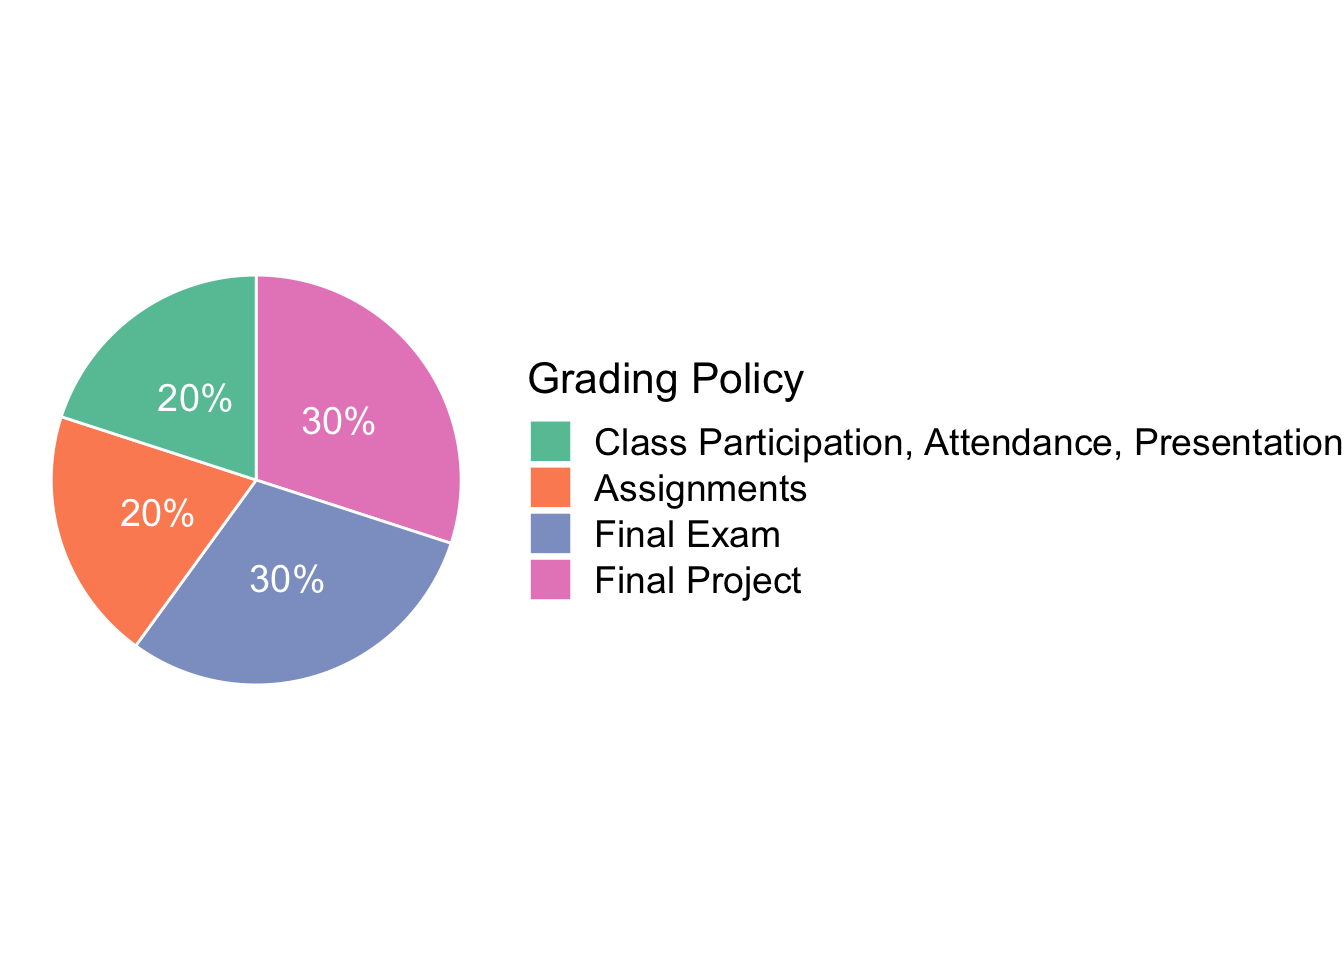
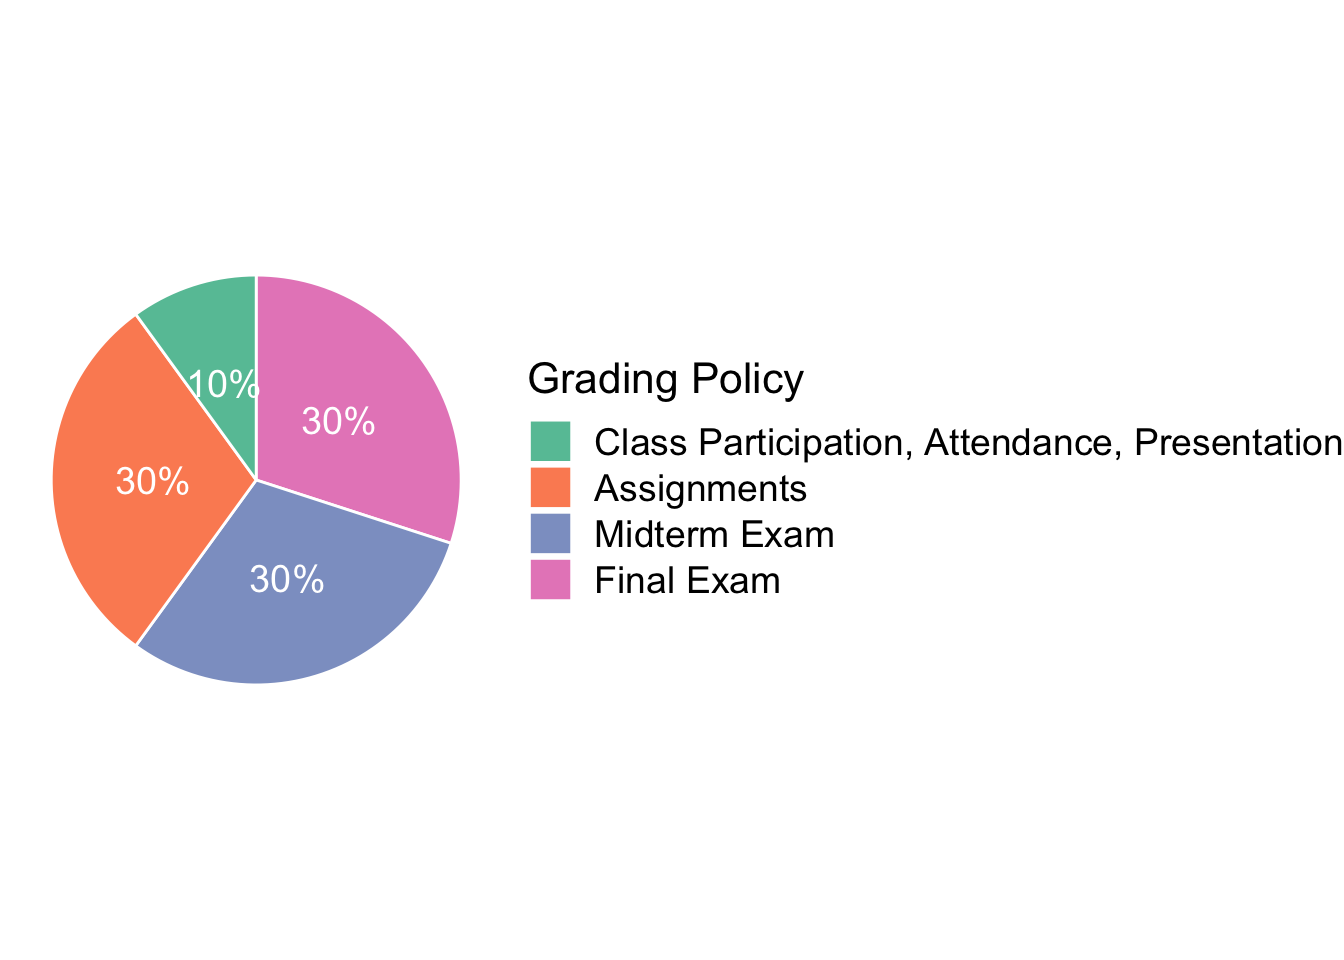
update docs

Changed region(s): [[0.0312, 0.3125, 0.1875, 0.5625], [0.4375, 0.5312, 0.625, 0.625]]

diff --git a/docs/index.html b/docs/index.html
@@ -345,33 +345,43 @@ $(document).ready(function () {
 </div>
 
 
-<p><em>This site is last-updated on 2019-12-05</em></p>
+<p><em>This site is last-updated on 2019-12-09</em></p>
 <hr />
 <div class="section level1">
 <h1><i class="fas  fa-clipboard-check "></i> Annoucements</h1>
 <p>Important course information will be posted on this web page and announced in class. You are responsible for all material that appears here and should check this page for updates frequently.</p>
 <ul>
-<li><strong>2019-12-05</strong>: This course website is still under construction…This website is being prepared for the Spring semester of 2020. The course materials have not been complete yet. There are for sure errors now. This website will probably be more in shape after the in-class lectures. Please stay tuned…</li>
+<li><strong>2019-12-09</strong>: This course website is still under construction…This website is being prepared for the Spring semester of 2020. The course materials have not been complete yet. There are for sure errors now. This website will probably be more in shape after the in-class lectures. Please stay tuned…</li>
 </ul>
 <hr />
 </div>
 <div class="section level1">
 <h1><i class="fas  fa-clipboard-check "></i> Course Description</h1>
-<p>This course aims to introduce theories and practices of Corpus Linguistics as a scientific discipline of its own. Corpus Linguistics has now been considered an interdisciplinary subject, requiring knowledge of linguistic theories, quantitative statistics and data processing. Therefore, this course aims to provide the necessary foundation as well as skills for students who are interested in conducting corpus-based linguistic research or language-related research. Students are expected to learn:</p>
+<p>This course aims to introduce theories and practices of Corpus Linguistics as a scientific discipline of its own. Corpus Linguistics has now been considered an interdisciplinary subject, requiring knowledge of linguistic theories, quantitative statistics and data processing. Therefore, this course aims to provide the necessary foundation as well as computational skills for students who are interested in conducting corpus-based linguistic research or language-related research. Students are expected to learn:</p>
 <ul>
 <li>the methodological foundations of Corpus Linguistics</li>
 <li>the theoretical bases of Corpus Linguistics</li>
 <li>the technical designs and configuration of standard corpora</li>
-<li>how to adopt corpus linguistics as a scientific method in terms of :
+<li>how to adopt corpus linguistics as a scientific method in terms of:
 <ul>
+<li>corpus creation</li>
 <li>operationalization</li>
 <li>data retrieval</li>
 <li>quantifying research questions</li>
 <li>significance testing</li>
 </ul></li>
-<li>the applications of corpus-linguistic methodology in the sub-disciplines of linguistic studies</li>
+<li>the common applications of corpus-linguistic methodology:
+<ul>
+<li>concordances</li>
+<li>frequency lists</li>
+<li>collocations</li>
+<li>keywords</li>
+<li>lexical bundles</li>
+<li>word clouds</li>
+<li>vector-space representation of words and texts</li>
+</ul></li>
 </ul>
-<p>The objective of this course is two-fold. On the one hand, it will introduce the theoretical constructs behind corpus linguistics as well as the theoretical foundations that motivate such an empirical method. On the other hand, it will provide specific hands-on tutorials to equip students with the necessary skills of text and statistical processing. This course will be a prerequisite for more advanced courses such as Computational Linguistics, Quantitative Corpus Linguistics.</p>
+<p>This course is extremely hads-on and will lead the students through classic examples of these corpus-based applications via in-class tutorial sessions and take-home assignments. The main objective of this course is to provide students enough computational skills to perform similar corpus-based analyses on their own data or research questions. Also, it will provide specific hands-on tutorials to equip students with the necessary skills of text and statistical processing. This course will be a prerequisite for more advanced courses such as Computational Linguistics and Quantitative Corpus Linguistics.</p>
 <hr />
 </div>
 <div class="section level1">
@@ -421,7 +431,7 @@ Week 3
 2020-03-02
 </td>
 <td style="text-align:left;">
-Corpus Creation I: Design, Method, Formats
+R Fundamentals I
 </td>
 </tr>
 <tr>
@@ -432,7 +442,7 @@ Week 4
 2020-03-09
 </td>
 <td style="text-align:left;">
-Corpus Creation II: Web Crawler
+R Fundamentals II
 </td>
 </tr>
 <tr>
@@ -443,7 +453,7 @@ Week 5
 2020-03-16
 </td>
 <td style="text-align:left;">
-Scientific Method and Hypothesis formulating
+Data Collection and Corpus Creation: HTML and Web Crawler
 </td>
 </tr>
 <tr>
@@ -454,7 +464,7 @@ Week 6
 2020-03-23
 </td>
 <td style="text-align:left;">
-Query language
+Concordances, Frequency Lists, Collocations
 </td>
 </tr>
 <tr>
@@ -465,28 +475,28 @@ Week 7
 2020-03-30
 </td>
 <td style="text-align:left;">
-Data Retrieval and Coding
+Tokenization
 </td>
 </tr>
 <tr>
-<td style="text-align:left;font-weight: bold;">
+<td style="text-align:left;font-weight: bold;color: darkblue !important;">
 Week 8
 </td>
-<td style="text-align:left;font-weight: bold;">
+<td style="text-align:left;font-weight: bold;color: darkblue !important;">
 2020-04-06
 </td>
-<td style="text-align:left;font-weight: bold;">
+<td style="text-align:left;font-weight: bold;color: darkblue !important;">
 Holiday
 </td>
 </tr>
 <tr>
-<td style="text-align:left;font-weight: bold;">
+<td style="text-align:left;font-weight: bold;color: darkblue !important;">
 Week 9
 </td>
-<td style="text-align:left;font-weight: bold;">
+<td style="text-align:left;font-weight: bold;color: darkblue !important;">
 2020-04-13
 </td>
-<td style="text-align:left;font-weight: bold;">
+<td style="text-align:left;font-weight: bold;color: darkblue !important;">
 Midterm Exam
 </td>
 </tr>
@@ -498,7 +508,7 @@ Week 10
 2020-04-20
 </td>
 <td style="text-align:left;">
-Quantifying Research Questions
+N-grams and Lexical Bundles
 </td>
 </tr>
 <tr>
@@ -509,7 +519,7 @@ Week 11
 2020-04-27
 </td>
 <td style="text-align:left;">
-Quantifying Research Questions
+Parts-of-Speech Tagging
 </td>
 </tr>
 <tr>
@@ -520,7 +530,7 @@ Week 12
 2020-05-04
 </td>
 <td style="text-align:left;">
-Significance Testing
+Data Retrieval and Coding: Regular Expressions
 </td>
 </tr>
 <tr>
@@ -531,7 +541,7 @@ Week 13
 2020-05-11
 </td>
 <td style="text-align:left;">
-Case Studies: Collocation &amp; Lexical Semantics
+Data Retrieval and Coding: Experimental Design
 </td>
 </tr>
 <tr>
@@ -542,7 +552,7 @@ Week 14
 2020-05-18
 </td>
 <td style="text-align:left;">
-Case Studies: Language Learning
+Statistical Evaluation I: Significance Test
 </td>
 </tr>
 <tr>
@@ -553,40 +563,40 @@ Week 15
 2020-05-25
 </td>
 <td style="text-align:left;">
-Case Studies: Social Variation
+Statistical Evaluation II: Case Studies
 </td>
 </tr>
 <tr>
-<td style="text-align:left;font-weight: bold;">
+<td style="text-align:left;">
 Week 16
 </td>
-<td style="text-align:left;font-weight: bold;">
+<td style="text-align:left;">
 2020-06-01
 </td>
-<td style="text-align:left;font-weight: bold;">
-Research Project Presentation I
+<td style="text-align:left;">
+Chinese Text Analytics
 </td>
 </tr>
 <tr>
-<td style="text-align:left;font-weight: bold;">
+<td style="text-align:left;">
 Week 17
 </td>
-<td style="text-align:left;font-weight: bold;">
+<td style="text-align:left;">
 2020-06-08
 </td>
-<td style="text-align:left;font-weight: bold;">
-Research Project Presentation II
+<td style="text-align:left;">
+Keyword Analysis
 </td>
 </tr>
 <tr>
-<td style="text-align:left;font-weight: bold;">
+<td style="text-align:left;font-weight: bold;color: darkblue !important;">
 Week 18
 </td>
-<td style="text-align:left;font-weight: bold;">
+<td style="text-align:left;font-weight: bold;color: darkblue !important;">
 2020-06-15
 </td>
-<td style="text-align:left;font-weight: bold;">
-Final Project Report Submission
+<td style="text-align:left;font-weight: bold;color: darkblue !important;">
+Final Exam
 </td>
 </tr>
 </tbody>
